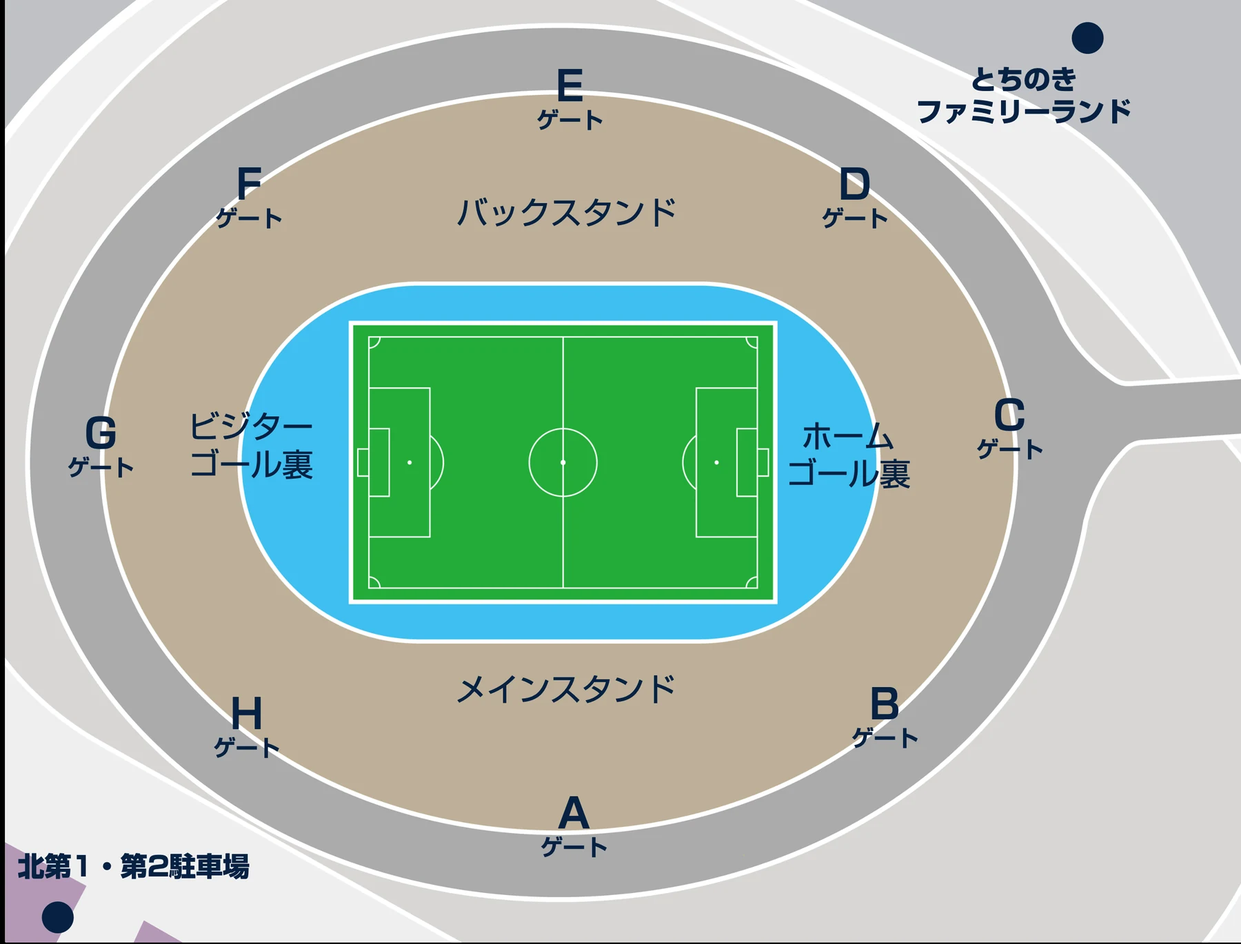
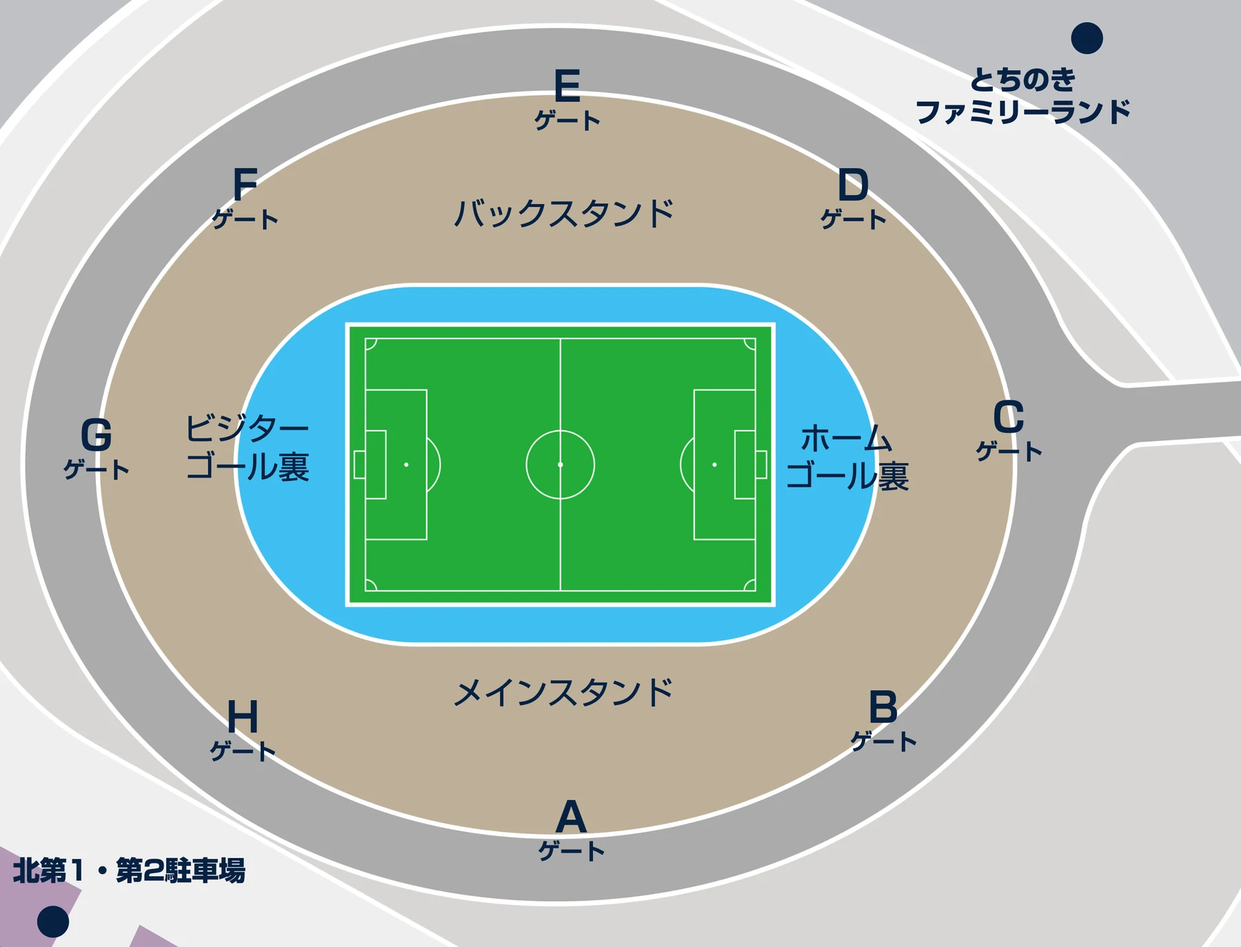
会場図の左辺の罫線を除去・16番をアプローチデッキ上へ
- 罫線は画像に焼き込まれた黒帯（左10px・下3px）だった。CSSではなく
  画像側を切り落として対応。旧画像には帯が無かったため、切り落とすと
  元と同じ枠取りに戻る。ゲートA〜H8か所で照合し、座標変換は不要と確認
- ⑯会茶：デッキの下の帯に置かれていたので、デッキの帯
  （y 0.407〜0.464）の中心 0.4351 へ移動

diff --git a/gourmet-goods-26-27/gourmet.html b/gourmet-goods-26-27/gourmet.html
@@ -417,7 +417,7 @@ a{color:inherit; text-decoration:none;}
 <div id="lb"><span class="x">×</span><div class="box"><div class="big"><div class="demoji"><span>🍧</span></div></div><div class="lbcap" id="lbnm"></div></div></div>
 
 <script>
-const DATA = {"match":{"date":"2026-08-09","kickoff":"19:00","opponent":"ツエーゲン金沢","venue":"カンセキスタジアムとちぎ"},"hours":{"outside":"15:30〜試合終了","inside":"16:30〜試合終了","cashless":true},"note":"販売エリアは完全キャッシュレス（現金不可）。画像・説明文の出典＝栃木SC公式（8/9金沢戦グルメ告知）。","items":[{"id":"i1","name":"栃木SCカラー ビッグかき氷","price":"¥500","desc":"ふわふわ氷にたっぷりシロップをかけた、ボリューム満点のBigサイズ","shop":"O.N.Y","zone":"場外","area":"⑬","e":"🍧","img":"https://www.tochigisc.jp/upload/NewsDetail/images/pc_img_19540_6a69c362-64fc-49dd-84b5-4bd6857d3f39.jpg","hero":true},{"id":"i2","name":"台湾からあげ ダージーパイ","price":"¥800〜","desc":"顔より大きい⁉ ダージーパイはビールとの相性も最高","shop":"O.N.Y","zone":"場外","area":"⑬","e":"🍗","img":"https://www.tochigisc.jp/upload/NewsDetail/images/pc_img_19542_6a684be5-1d68-430e-8cdb-4316857d3f39.jpg","hero":true},{"id":"i3","name":"ダブルチーズバーガー","price":"¥2,400","desc":"BEEF100%パティが2枚、チェダーチーズは4枚","shop":"Chronic Burger","zone":"場外","area":"⑦","e":"🍔","img":"https://www.tochigisc.jp/upload/NewsDetail/images/pc_img_19563_6a69c4df-2d84-4f10-9e3c-4d3b857d3f39.jpg","hero":true},{"id":"i4","name":"超ド級！ソーセージドッグ","price":"¥1,100","desc":"150gもあるソーセージ","shop":"JOURNEY","zone":"場内","area":"㉓","e":"🌭","img":"https://www.tochigisc.jp/upload/NewsDetail/images/pc_img_19589_6a69ba41-e7bc-4f24-a99a-2005857d3f39.jpg","hero":true},{"id":"i5","name":"国産鶏のからあげ","price":"¥648","desc":"国産鶏と秘伝のタレで仕込んだ絶品から揚げ","shop":"からあげかずちゃんち","zone":"場外","area":"⑭","e":"🍗","img":"https://www.tochigisc.jp/upload/NewsDetail/images/pc_img_19544_6a684be7-76d8-43ba-b3cb-4316857d3f39.jpg","hero":false},{"id":"i6","name":"炭火焼 ビック牛串","price":"¥900","desc":"炭火でじっくり焼き上げたビックサイズの牛串","shop":"フードトラック 天","zone":"場外","area":"⑮","e":"🍢","img":"https://www.tochigisc.jp/upload/NewsDetail/images/pc_img_19546_6a69c4de-29b0-4659-8dcf-4d3b857d3f39.jpg","hero":false},{"id":"i7","name":"炙り黒糖ミルクティー","price":"¥800","desc":"本場・台湾仕込みのレシピで作る、こだわりのタピオカドリンク","shop":"会茶","zone":"場外","area":"⑯","e":"🧋","img":"https://www.tochigisc.jp/upload/NewsDetail/images/pc_img_19548_6a684be8-a730-4eab-9e78-4316857d3f39.jpg","hero":false},{"id":"i8","name":"焼きとうもろこし玉子串","price":"¥650","desc":"ダシ醤油玉子焼きにコーンをのせ炙りました","shop":"玉子屋てっちゃん","zone":"場外","area":"⑥","e":"🌽","img":"https://www.tochigisc.jp/upload/NewsDetail/images/pc_img_19553_6a69b9f1-e3cc-41d3-915d-25e4857d3f39.jpg","hero":false},{"id":"i9","name":"大玉揚げたこ焼き","price":"¥700","desc":"揚げたこ焼きアツアツパワーで勝利を後押し","shop":"MoguRico","zone":"場内","area":"㉑","e":"🐙","img":"https://www.tochigisc.jp/upload/NewsDetail/images/pc_img_19561_6a69b9f2-a110-470b-8a7a-25e4857d3f39.jpg","hero":false},{"id":"i10","name":"カツシウマイ串","price":"¥500","desc":"鹿沼シウマイにころもをつけてカリッと揚げました","shop":"SMILE KITCHEN","zone":"場外","area":"①","e":"🍢","img":"https://www.tochigisc.jp/upload/NewsDetail/images/pc_img_19551_6a69b9f2-b3c4-4f4f-ad02-25e4857d3f39.jpg","hero":false},{"id":"i11","name":"ポークカルニータス","price":"¥900","desc":"ホロホロになるまでじっくり煮込んだ豚肩ロース肉に自家製サルサ","shop":"Feel Good Tacos","zone":"場外","area":"②","e":"🌮","img":"https://www.tochigisc.jp/upload/NewsDetail/images/pc_img_19555_6a69b9f3-5114-4f85-9c58-25e4857d3f39.jpg","hero":false},{"id":"i12","name":"味噌豚丼（バラ/カルビ/あいもり）","price":"¥1,000〜1,500","desc":"特製味噌たれで香ばしく焼き上げた","shop":"pighip","zone":"場外","area":"③","e":"🍚","img":"https://www.tochigisc.jp/upload/NewsDetail/images/pc_img_19637_6a69c841-bf94-4713-bcaf-418a857d3f39.jpg","hero":false},{"id":"i13","name":"味噌豚カルビ串","price":"¥700","desc":"特製味噌たれで香ばしく焼き上げた","shop":"pighip","zone":"場外","area":"③","e":"🍢","img":"https://www.tochigisc.jp/upload/NewsDetail/images/pc_img_19637_6a69c841-bf94-4713-bcaf-418a857d3f39.jpg","hero":false},{"id":"i14","name":"牛肉のトマト煮","price":"¥800","desc":"牛肉を飴色に炒めた玉ねぎ、自家製トマトソースで煮込んで","shop":"Sports Café 92","zone":"場外","area":"④","e":"🍲","img":"https://www.tochigisc.jp/upload/NewsDetail/images/pc_img_19557_6a69b9f3-f81c-40cd-831f-25e4857d3f39.jpg","hero":false},{"id":"i15","name":"マーラータンフライドチキン","price":"¥450","desc":"ちょっぴり辛くてサクサクジューシーのマーラータン味","shop":"大谷石窯ピッツァ","zone":"場外","area":"⑤","e":"🍗","img":"https://www.tochigisc.jp/upload/NewsDetail/images/pc_img_19559_6a69b9f4-58c8-4f0c-9331-25e4857d3f39.jpg","hero":false},{"id":"i16","name":"スパイシーチキン","price":"¥800","desc":"トマトベースの甘辛スパイスソースを絡めた","shop":"月とスパイス","zone":"場外","area":"⑨","e":"🍗","img":"https://www.tochigisc.jp/upload/NewsDetail/images/pc_img_19565_6a69c4df-65ec-4753-a914-4d3b857d3f39.jpg","hero":false},{"id":"i17","name":"ケバブサンド","price":"¥600","desc":"回転焼肉を挟んだもも肉100%のジューシーなチキンケバブサンド","shop":"ケバブキッチン","zone":"場外","area":"⑩","e":"🥙","img":"https://www.tochigisc.jp/upload/NewsDetail/images/pc_img_19567_6a684fe8-3200-4d74-a886-5868857d3f39.jpg","hero":false},{"id":"i18","name":"ブラジル丼","price":"¥1,000","desc":"チキンカツ、牛ステーキ、ブラジリアンソーセージ","shop":"ダ・ネイデ","zone":"場外","area":"⑪","e":"🍚","img":"https://www.tochigisc.jp/upload/NewsDetail/images/pc_img_19569_6a684fea-7dec-42c9-90d9-5868857d3f39.jpg","hero":false},{"id":"i19","name":"リングイッサ","price":"¥800","desc":"ブラジリアンソーセージ！おつまみにどうぞ","shop":"ダ・ネイデ","zone":"場外","area":"⑪","e":"🌭","img":"https://www.tochigisc.jp/upload/NewsDetail/images/pc_img_19571_6a69ba3e-63ac-49dd-ba0f-2005857d3f39.jpg","hero":false},{"id":"i20","name":"炭火焼もも串","price":"¥380","desc":"もも2本セット、秘伝のタレでご賞味","shop":"フードトラック 天","zone":"場外","area":"⑮","e":"🍢","img":"https://www.tochigisc.jp/upload/NewsDetail/images/pc_img_19573_6a69ce07-11c8-4d52-be9d-6a1d857d3f39.jpg","hero":false},{"id":"i21","name":"台湾ポップコーンチキン","price":"¥650","desc":"外はサクサク、中はジューシー！台湾スパイスの香り","shop":"会茶","zone":"場外","area":"⑯","e":"🍗","img":"https://www.tochigisc.jp/upload/NewsDetail/images/pc_img_19575_6a69ce08-5878-469f-b5a5-6a1d857d3f39.jpg","hero":false},{"id":"i22","name":"スモーキーダックレッグ","price":"¥800","desc":"スモーキーな香りと濃厚な鴨の旨み","shop":"DordCoffee","zone":"場内","area":"⑱","e":"🍖","img":"https://www.tochigisc.jp/upload/NewsDetail/images/pc_img_19577_6a69ba3f-c0a8-4f14-a7b0-2005857d3f39.jpg","hero":false},{"id":"i23","name":"肉巻き串団子","price":"¥400","desc":"もっちり串団子に豚バラ肉を巻き付けて焼いた","shop":"とちぎのぼんた","zone":"場内","area":"⑲","e":"🍡","img":"https://www.tochigisc.jp/upload/NewsDetail/images/pc_img_19579_6a69ba3f-3e8c-44a2-9c97-2005857d3f39.jpg","hero":false},{"id":"i24","name":"角煮パオ","price":"¥500","desc":"柔らかくトロトロに煮込んだ豚バラ肉の角煮","shop":"Season1","zone":"場内","area":"⑳","e":"🥟","img":"https://www.tochigisc.jp/upload/NewsDetail/images/pc_img_19581_6a69ba40-78d0-4645-afff-2005857d3f39.jpg","hero":false},{"id":"i25","name":"ターキーレッグ","price":"¥850","desc":"りんごチップでじっくり燻製！香ばしさとジューシーさ","shop":"MoguRico","zone":"場内","area":"㉑","e":"🍖","img":"https://www.tochigisc.jp/upload/NewsDetail/images/pc_img_19583_6a69ba40-5dac-4955-a3e4-2005857d3f39.jpg","hero":false},{"id":"i26","name":"から揚げ","price":"¥650","desc":"外はカリッと中はジューシーなから揚げ","shop":"M's kitchen NEWS","zone":"場内","area":"㉒","e":"🍗","img":"https://www.tochigisc.jp/upload/NewsDetail/images/pc_img_19585_6a69ba41-2b0c-4aef-9baa-2005857d3f39.jpg","hero":false},{"id":"i27","name":"パストラミポークコッペ","price":"¥702","desc":"お店でも人気のパストラミポーク","shop":"JOURNEY","zone":"場内","area":"㉓","e":"🥖","img":"https://www.tochigisc.jp/upload/NewsDetail/images/pc_img_19587_6a684ff2-04a0-45b5-98b9-5868857d3f39.jpg","hero":false},{"id":"i28","name":"パストラミポークコッペ 倍盛り","price":"¥972","desc":"お肉倍盛りの60gが入った贅沢盛り","shop":"JOURNEY","zone":"場内","area":"㉓","e":"🥖","img":"https://www.tochigisc.jp/upload/NewsDetail/images/pc_img_19587_6a684ff2-04a0-45b5-98b9-5868857d3f39.jpg","hero":false},{"id":"i29","name":"辛味チキン","price":"¥600","desc":"ピリッと辛いチキン、ビールと一緒に","shop":"ドリームソウル","zone":"場内","area":"㉔","e":"🍗","img":"https://www.tochigisc.jp/upload/NewsDetail/images/pc_img_19591_6a69ba42-da98-465c-ab34-2005857d3f39.jpg","hero":false},{"id":"i30","name":"汁なし担々麵","price":"¥1,000","desc":"濃厚ゴマダレの汁なし担々麵","shop":"SMILE KITCHEN","zone":"場外","area":"①","e":"🍜","img":"https://www.tochigisc.jp/upload/NewsDetail/images/pc_img_19640_6a69ce08-77b4-4eb0-98ba-6a1d857d3f39.jpg","hero":false},{"id":"i31","name":"チキンオーバーライス","price":"¥1,000","desc":"ホットソースとホワイトソースが作り出すスパイシー","shop":"Feel Good Tacos","zone":"場外","area":"②","e":"🍚","img":"https://www.tochigisc.jp/upload/NewsDetail/images/pc_img_19642_6a69c843-6f4c-44a2-9e53-418a857d3f39.jpg","hero":false},{"id":"i32","name":"味噌豚カルビ丼","price":"¥1,500","desc":"栃木県野木町産コシヒカリと千葉県佐倉市の老舗味噌蔵","shop":"pighip","zone":"場外","area":"③","e":"🍚","img":"https://www.tochigisc.jp/upload/NewsDetail/images/pc_img_19644_6a69c845-d6dc-4d57-983b-418a857d3f39.jpg","hero":false},{"id":"i33","name":"フレッシュトマトとツナのパスタ","price":"¥750","desc":"旬のトマト、ツナでさっぱりと！","shop":"Sports Café 92","zone":"場外","area":"④","e":"🍝","img":"https://www.tochigisc.jp/upload/NewsDetail/images/pc_img_19646_6a69c846-bd6c-4843-94c1-418a857d3f39.jpg","hero":false},{"id":"i34","name":"マルゲリータ","price":"¥1,300","desc":"大谷石窯で焼き上げる本格石窯ピザ","shop":"大谷石窯ピッツァ","zone":"場外","area":"⑤","e":"🍕","img":"https://www.tochigisc.jp/upload/NewsDetail/images/pc_img_19648_6a69c847-2b88-45ed-a191-418a857d3f39.jpg","hero":false},{"id":"i35","name":"玉子焼き","price":"¥700","desc":"玉子屋創業70年、昔ながらの美味しい玉子焼き","shop":"玉子屋てっちゃん","zone":"場外","area":"⑥","e":"🍳","img":"https://www.tochigisc.jp/upload/NewsDetail/images/pc_img_19650_6a69cc01-6d1c-4025-bacc-6353857d3f39.jpg","hero":false},{"id":"i36","name":"ジェラート","price":"¥500","desc":"日光乙女チーズのジェラート","shop":"日光乙女チーズ","zone":"場外","area":"⑧","e":"🍨","img":"https://www.tochigisc.jp/upload/NewsDetail/images/pc_img_19652_6a69ce0a-c604-40c8-bf24-6a1d857d3f39.jpg","hero":false},{"id":"i37","name":"チキンカレー","price":"¥1,100","desc":"本格的南インドカレーの人気店、月とスパイスのこだわり","shop":"月とスパイス","zone":"場外","area":"⑨","e":"🍛","img":"https://www.tochigisc.jp/upload/NewsDetail/images/pc_img_19654_6a69cc03-5d10-45e9-b780-6353857d3f39.jpg","hero":false},{"id":"i38","name":"レモネード","price":"¥660〜","desc":"豊富な種類のレモネード、アルコール入りもあります","shop":"ねこにレモン","zone":"場外","area":"⑫","e":"🍋","img":"https://www.tochigisc.jp/upload/NewsDetail/images/pc_img_19656_6a69cc04-112c-411b-a506-6353857d3f39.jpg","hero":false},{"id":"i39","name":"カットりんご飴","price":"¥918","desc":"市場で仕入れる新鮮りんご","shop":"LUANA","zone":"場内","area":"⑰","e":"🍎","img":"https://www.tochigisc.jp/upload/NewsDetail/images/pc_img_19658_6a69cc05-617c-4033-9dc5-6353857d3f39.jpg","hero":false},{"id":"i40","name":"カフェモカ","price":"¥702","desc":"香り高いカフェモカ","shop":"DordCoffee","zone":"場内","area":"⑱","e":"☕","img":"https://www.tochigisc.jp/upload/NewsDetail/images/pc_img_19660_6a69cc07-4bf8-4c4c-81ad-6353857d3f39.jpg","hero":false},{"id":"i41","name":"カツカレーライス","price":"¥1,200","desc":"勝つ（カツ）カレーで勝利を呼び込め","shop":"MoguRico","zone":"場内","area":"㉑","e":"🍛","img":"https://www.tochigisc.jp/upload/NewsDetail/images/pc_img_19662_6a69cc08-87bc-4c98-ad8e-6353857d3f39.jpg","hero":false},{"id":"i42","name":"必勝！！鯖サンド！！","price":"¥1,000","desc":"ボリューム満点鯖サンド！具材たっぷり特製タルタルソース","shop":"M's kitchen NEWS","zone":"場内","area":"㉒","e":"🥪","img":"https://www.tochigisc.jp/upload/NewsDetail/images/pc_img_19664_6a69cc09-8614-4d11-b9e8-6353857d3f39.jpg","hero":false},{"id":"i43","name":"栃木県産ヤシオポーク丼","price":"¥1,000","desc":"栃木県産ヤシオポークを使い、栃木県民の食べなれた味","shop":"ドリームソウル","zone":"場内","area":"㉔","e":"🍚","img":"https://www.tochigisc.jp/upload/NewsDetail/images/pc_img_19666_6a69cc0a-5e6c-4a19-8c41-6353857d3f39.jpg","hero":false}],"areas":[{"no":"①","zone":"場外","shop":"SMILE KITCHEN","x":0.2119,"y":0.8585},{"no":"②","zone":"場外","shop":"Feel Good Tacos","x":0.2689,"y":0.8939},{"no":"③","zone":"場外","shop":"pighip","x":0.3303,"y":0.9193},{"no":"④","zone":"場外","shop":"Sports Café 92","x":0.3946,"y":0.9342},{"no":"⑤","zone":"場外","shop":"大谷石窯ピッツァ","x":0.4603,"y":0.9382},{"no":"⑥","zone":"場外","shop":"玉子屋てっちゃん","x":0.5258,"y":0.9312},{"no":"⑦","zone":"場外","shop":"Chronic Burger","x":0.5895,"y":0.9133},{"no":"⑧","zone":"場外","shop":"日光乙女チーズ","x":0.6498,"y":0.8851},{"no":"⑨","zone":"場外","shop":"月とスパイス","x":0.7053,"y":0.8471},{"no":"⑩","zone":"場外","shop":"ケバブキッチン","x":0.7547,"y":0.8003},{"no":"⑪","zone":"場外","shop":"ダ・ネイデ","x":0.7967,"y":0.7458},{"no":"⑫","zone":"場外","shop":"ねこにレモン","x":0.8303,"y":0.685},{"no":"⑬","zone":"場外","shop":"O.N.Y","x":0.8547,"y":0.6193},{"no":"⑭","zone":"場外","shop":"からあげかずちゃんち","x":0.8693,"y":0.5503},{"no":"⑮","zone":"場外","shop":"フードトラック 天","x":0.8738,"y":0.4798},{"no":"⑯","zone":"場外","shop":"会茶","x":0.9488,"y":0.4898},{"no":"⑰","zone":"場内","shop":"LUANA","x":0.6318,"y":0.7497},{"no":"⑱","zone":"場内","shop":"DordCoffee","x":0.6862,"y":0.6949},{"no":"⑲","zone":"場内","shop":"とちぎのぼんた","x":0.756,"y":0.5138},{"no":"⑳","zone":"場内","shop":"Season1","x":0.6925,"y":0.2819},{"no":"㉑","zone":"場内","shop":"MoguRico","x":0.5009,"y":0.1598},{"no":"㉒","zone":"場内","shop":"M's kitchen NEWS","x":0.4264,"y":0.1565},{"no":"㉓","zone":"場内","shop":"JOURNEY","x":0.2069,"y":0.2864},{"no":"㉔","zone":"場内","shop":"ドリームソウル","x":0.205,"y":0.6795}],"maps":[{"img":"assets/img/g_map_gates_01.webp","caption":"会場図（番号は販売エリア）","fit":"whole","role":"primary","onimage":"ホームゲームの開放ゲートは A・C・G"}],"gates":[{"name":"A","x":0.4658,"y":0.8757},{"name":"B","x":0.7,"y":0.7693},{"name":"C","x":0.8155,"y":0.4648},{"name":"D","x":0.7002,"y":0.2075},{"name":"E","x":0.4661,"y":0.0928},{"name":"F","x":0.1928,"y":0.2066},{"name":"G","x":0.087,"y":0.4639},{"name":"H","x":0.1824,"y":0.7674}],"brand":{"name":"BISTRO TOCKEY","sub":"栃木SC フードエリア","logo":"assets/img/bistro_tockey.svg","bg":"#F4D14D","logoW":"124px","logoMax":"38%"},"payment":{"lead":"キャッシュレスでお会計もスムーズ","short":"スタジアム内のお支払いはキャッシュレスのみです。","body":"クレジットカード・スマホ決済・電子マネーがそのまま使えます。現金はご利用いただけません。","note":"現金をお持ちの方は、当日場内の専用ブースでプリペイドカードをご用意しています。","guideUrl":"#"}};
+const DATA = {"match":{"date":"2026-08-09","kickoff":"19:00","opponent":"ツエーゲン金沢","venue":"カンセキスタジアムとちぎ"},"hours":{"outside":"15:30〜試合終了","inside":"16:30〜試合終了","cashless":true},"note":"販売エリアは完全キャッシュレス（現金不可）。画像・説明文の出典＝栃木SC公式（8/9金沢戦グルメ告知）。","items":[{"id":"i1","name":"栃木SCカラー ビッグかき氷","price":"¥500","desc":"ふわふわ氷にたっぷりシロップをかけた、ボリューム満点のBigサイズ","shop":"O.N.Y","zone":"場外","area":"⑬","e":"🍧","img":"https://www.tochigisc.jp/upload/NewsDetail/images/pc_img_19540_6a69c362-64fc-49dd-84b5-4bd6857d3f39.jpg","hero":true},{"id":"i2","name":"台湾からあげ ダージーパイ","price":"¥800〜","desc":"顔より大きい⁉ ダージーパイはビールとの相性も最高","shop":"O.N.Y","zone":"場外","area":"⑬","e":"🍗","img":"https://www.tochigisc.jp/upload/NewsDetail/images/pc_img_19542_6a684be5-1d68-430e-8cdb-4316857d3f39.jpg","hero":true},{"id":"i3","name":"ダブルチーズバーガー","price":"¥2,400","desc":"BEEF100%パティが2枚、チェダーチーズは4枚","shop":"Chronic Burger","zone":"場外","area":"⑦","e":"🍔","img":"https://www.tochigisc.jp/upload/NewsDetail/images/pc_img_19563_6a69c4df-2d84-4f10-9e3c-4d3b857d3f39.jpg","hero":true},{"id":"i4","name":"超ド級！ソーセージドッグ","price":"¥1,100","desc":"150gもあるソーセージ","shop":"JOURNEY","zone":"場内","area":"㉓","e":"🌭","img":"https://www.tochigisc.jp/upload/NewsDetail/images/pc_img_19589_6a69ba41-e7bc-4f24-a99a-2005857d3f39.jpg","hero":true},{"id":"i5","name":"国産鶏のからあげ","price":"¥648","desc":"国産鶏と秘伝のタレで仕込んだ絶品から揚げ","shop":"からあげかずちゃんち","zone":"場外","area":"⑭","e":"🍗","img":"https://www.tochigisc.jp/upload/NewsDetail/images/pc_img_19544_6a684be7-76d8-43ba-b3cb-4316857d3f39.jpg","hero":false},{"id":"i6","name":"炭火焼 ビック牛串","price":"¥900","desc":"炭火でじっくり焼き上げたビックサイズの牛串","shop":"フードトラック 天","zone":"場外","area":"⑮","e":"🍢","img":"https://www.tochigisc.jp/upload/NewsDetail/images/pc_img_19546_6a69c4de-29b0-4659-8dcf-4d3b857d3f39.jpg","hero":false},{"id":"i7","name":"炙り黒糖ミルクティー","price":"¥800","desc":"本場・台湾仕込みのレシピで作る、こだわりのタピオカドリンク","shop":"会茶","zone":"場外","area":"⑯","e":"🧋","img":"https://www.tochigisc.jp/upload/NewsDetail/images/pc_img_19548_6a684be8-a730-4eab-9e78-4316857d3f39.jpg","hero":false},{"id":"i8","name":"焼きとうもろこし玉子串","price":"¥650","desc":"ダシ醤油玉子焼きにコーンをのせ炙りました","shop":"玉子屋てっちゃん","zone":"場外","area":"⑥","e":"🌽","img":"https://www.tochigisc.jp/upload/NewsDetail/images/pc_img_19553_6a69b9f1-e3cc-41d3-915d-25e4857d3f39.jpg","hero":false},{"id":"i9","name":"大玉揚げたこ焼き","price":"¥700","desc":"揚げたこ焼きアツアツパワーで勝利を後押し","shop":"MoguRico","zone":"場内","area":"㉑","e":"🐙","img":"https://www.tochigisc.jp/upload/NewsDetail/images/pc_img_19561_6a69b9f2-a110-470b-8a7a-25e4857d3f39.jpg","hero":false},{"id":"i10","name":"カツシウマイ串","price":"¥500","desc":"鹿沼シウマイにころもをつけてカリッと揚げました","shop":"SMILE KITCHEN","zone":"場外","area":"①","e":"🍢","img":"https://www.tochigisc.jp/upload/NewsDetail/images/pc_img_19551_6a69b9f2-b3c4-4f4f-ad02-25e4857d3f39.jpg","hero":false},{"id":"i11","name":"ポークカルニータス","price":"¥900","desc":"ホロホロになるまでじっくり煮込んだ豚肩ロース肉に自家製サルサ","shop":"Feel Good Tacos","zone":"場外","area":"②","e":"🌮","img":"https://www.tochigisc.jp/upload/NewsDetail/images/pc_img_19555_6a69b9f3-5114-4f85-9c58-25e4857d3f39.jpg","hero":false},{"id":"i12","name":"味噌豚丼（バラ/カルビ/あいもり）","price":"¥1,000〜1,500","desc":"特製味噌たれで香ばしく焼き上げた","shop":"pighip","zone":"場外","area":"③","e":"🍚","img":"https://www.tochigisc.jp/upload/NewsDetail/images/pc_img_19637_6a69c841-bf94-4713-bcaf-418a857d3f39.jpg","hero":false},{"id":"i13","name":"味噌豚カルビ串","price":"¥700","desc":"特製味噌たれで香ばしく焼き上げた","shop":"pighip","zone":"場外","area":"③","e":"🍢","img":"https://www.tochigisc.jp/upload/NewsDetail/images/pc_img_19637_6a69c841-bf94-4713-bcaf-418a857d3f39.jpg","hero":false},{"id":"i14","name":"牛肉のトマト煮","price":"¥800","desc":"牛肉を飴色に炒めた玉ねぎ、自家製トマトソースで煮込んで","shop":"Sports Café 92","zone":"場外","area":"④","e":"🍲","img":"https://www.tochigisc.jp/upload/NewsDetail/images/pc_img_19557_6a69b9f3-f81c-40cd-831f-25e4857d3f39.jpg","hero":false},{"id":"i15","name":"マーラータンフライドチキン","price":"¥450","desc":"ちょっぴり辛くてサクサクジューシーのマーラータン味","shop":"大谷石窯ピッツァ","zone":"場外","area":"⑤","e":"🍗","img":"https://www.tochigisc.jp/upload/NewsDetail/images/pc_img_19559_6a69b9f4-58c8-4f0c-9331-25e4857d3f39.jpg","hero":false},{"id":"i16","name":"スパイシーチキン","price":"¥800","desc":"トマトベースの甘辛スパイスソースを絡めた","shop":"月とスパイス","zone":"場外","area":"⑨","e":"🍗","img":"https://www.tochigisc.jp/upload/NewsDetail/images/pc_img_19565_6a69c4df-65ec-4753-a914-4d3b857d3f39.jpg","hero":false},{"id":"i17","name":"ケバブサンド","price":"¥600","desc":"回転焼肉を挟んだもも肉100%のジューシーなチキンケバブサンド","shop":"ケバブキッチン","zone":"場外","area":"⑩","e":"🥙","img":"https://www.tochigisc.jp/upload/NewsDetail/images/pc_img_19567_6a684fe8-3200-4d74-a886-5868857d3f39.jpg","hero":false},{"id":"i18","name":"ブラジル丼","price":"¥1,000","desc":"チキンカツ、牛ステーキ、ブラジリアンソーセージ","shop":"ダ・ネイデ","zone":"場外","area":"⑪","e":"🍚","img":"https://www.tochigisc.jp/upload/NewsDetail/images/pc_img_19569_6a684fea-7dec-42c9-90d9-5868857d3f39.jpg","hero":false},{"id":"i19","name":"リングイッサ","price":"¥800","desc":"ブラジリアンソーセージ！おつまみにどうぞ","shop":"ダ・ネイデ","zone":"場外","area":"⑪","e":"🌭","img":"https://www.tochigisc.jp/upload/NewsDetail/images/pc_img_19571_6a69ba3e-63ac-49dd-ba0f-2005857d3f39.jpg","hero":false},{"id":"i20","name":"炭火焼もも串","price":"¥380","desc":"もも2本セット、秘伝のタレでご賞味","shop":"フードトラック 天","zone":"場外","area":"⑮","e":"🍢","img":"https://www.tochigisc.jp/upload/NewsDetail/images/pc_img_19573_6a69ce07-11c8-4d52-be9d-6a1d857d3f39.jpg","hero":false},{"id":"i21","name":"台湾ポップコーンチキン","price":"¥650","desc":"外はサクサク、中はジューシー！台湾スパイスの香り","shop":"会茶","zone":"場外","area":"⑯","e":"🍗","img":"https://www.tochigisc.jp/upload/NewsDetail/images/pc_img_19575_6a69ce08-5878-469f-b5a5-6a1d857d3f39.jpg","hero":false},{"id":"i22","name":"スモーキーダックレッグ","price":"¥800","desc":"スモーキーな香りと濃厚な鴨の旨み","shop":"DordCoffee","zone":"場内","area":"⑱","e":"🍖","img":"https://www.tochigisc.jp/upload/NewsDetail/images/pc_img_19577_6a69ba3f-c0a8-4f14-a7b0-2005857d3f39.jpg","hero":false},{"id":"i23","name":"肉巻き串団子","price":"¥400","desc":"もっちり串団子に豚バラ肉を巻き付けて焼いた","shop":"とちぎのぼんた","zone":"場内","area":"⑲","e":"🍡","img":"https://www.tochigisc.jp/upload/NewsDetail/images/pc_img_19579_6a69ba3f-3e8c-44a2-9c97-2005857d3f39.jpg","hero":false},{"id":"i24","name":"角煮パオ","price":"¥500","desc":"柔らかくトロトロに煮込んだ豚バラ肉の角煮","shop":"Season1","zone":"場内","area":"⑳","e":"🥟","img":"https://www.tochigisc.jp/upload/NewsDetail/images/pc_img_19581_6a69ba40-78d0-4645-afff-2005857d3f39.jpg","hero":false},{"id":"i25","name":"ターキーレッグ","price":"¥850","desc":"りんごチップでじっくり燻製！香ばしさとジューシーさ","shop":"MoguRico","zone":"場内","area":"㉑","e":"🍖","img":"https://www.tochigisc.jp/upload/NewsDetail/images/pc_img_19583_6a69ba40-5dac-4955-a3e4-2005857d3f39.jpg","hero":false},{"id":"i26","name":"から揚げ","price":"¥650","desc":"外はカリッと中はジューシーなから揚げ","shop":"M's kitchen NEWS","zone":"場内","area":"㉒","e":"🍗","img":"https://www.tochigisc.jp/upload/NewsDetail/images/pc_img_19585_6a69ba41-2b0c-4aef-9baa-2005857d3f39.jpg","hero":false},{"id":"i27","name":"パストラミポークコッペ","price":"¥702","desc":"お店でも人気のパストラミポーク","shop":"JOURNEY","zone":"場内","area":"㉓","e":"🥖","img":"https://www.tochigisc.jp/upload/NewsDetail/images/pc_img_19587_6a684ff2-04a0-45b5-98b9-5868857d3f39.jpg","hero":false},{"id":"i28","name":"パストラミポークコッペ 倍盛り","price":"¥972","desc":"お肉倍盛りの60gが入った贅沢盛り","shop":"JOURNEY","zone":"場内","area":"㉓","e":"🥖","img":"https://www.tochigisc.jp/upload/NewsDetail/images/pc_img_19587_6a684ff2-04a0-45b5-98b9-5868857d3f39.jpg","hero":false},{"id":"i29","name":"辛味チキン","price":"¥600","desc":"ピリッと辛いチキン、ビールと一緒に","shop":"ドリームソウル","zone":"場内","area":"㉔","e":"🍗","img":"https://www.tochigisc.jp/upload/NewsDetail/images/pc_img_19591_6a69ba42-da98-465c-ab34-2005857d3f39.jpg","hero":false},{"id":"i30","name":"汁なし担々麵","price":"¥1,000","desc":"濃厚ゴマダレの汁なし担々麵","shop":"SMILE KITCHEN","zone":"場外","area":"①","e":"🍜","img":"https://www.tochigisc.jp/upload/NewsDetail/images/pc_img_19640_6a69ce08-77b4-4eb0-98ba-6a1d857d3f39.jpg","hero":false},{"id":"i31","name":"チキンオーバーライス","price":"¥1,000","desc":"ホットソースとホワイトソースが作り出すスパイシー","shop":"Feel Good Tacos","zone":"場外","area":"②","e":"🍚","img":"https://www.tochigisc.jp/upload/NewsDetail/images/pc_img_19642_6a69c843-6f4c-44a2-9e53-418a857d3f39.jpg","hero":false},{"id":"i32","name":"味噌豚カルビ丼","price":"¥1,500","desc":"栃木県野木町産コシヒカリと千葉県佐倉市の老舗味噌蔵","shop":"pighip","zone":"場外","area":"③","e":"🍚","img":"https://www.tochigisc.jp/upload/NewsDetail/images/pc_img_19644_6a69c845-d6dc-4d57-983b-418a857d3f39.jpg","hero":false},{"id":"i33","name":"フレッシュトマトとツナのパスタ","price":"¥750","desc":"旬のトマト、ツナでさっぱりと！","shop":"Sports Café 92","zone":"場外","area":"④","e":"🍝","img":"https://www.tochigisc.jp/upload/NewsDetail/images/pc_img_19646_6a69c846-bd6c-4843-94c1-418a857d3f39.jpg","hero":false},{"id":"i34","name":"マルゲリータ","price":"¥1,300","desc":"大谷石窯で焼き上げる本格石窯ピザ","shop":"大谷石窯ピッツァ","zone":"場外","area":"⑤","e":"🍕","img":"https://www.tochigisc.jp/upload/NewsDetail/images/pc_img_19648_6a69c847-2b88-45ed-a191-418a857d3f39.jpg","hero":false},{"id":"i35","name":"玉子焼き","price":"¥700","desc":"玉子屋創業70年、昔ながらの美味しい玉子焼き","shop":"玉子屋てっちゃん","zone":"場外","area":"⑥","e":"🍳","img":"https://www.tochigisc.jp/upload/NewsDetail/images/pc_img_19650_6a69cc01-6d1c-4025-bacc-6353857d3f39.jpg","hero":false},{"id":"i36","name":"ジェラート","price":"¥500","desc":"日光乙女チーズのジェラート","shop":"日光乙女チーズ","zone":"場外","area":"⑧","e":"🍨","img":"https://www.tochigisc.jp/upload/NewsDetail/images/pc_img_19652_6a69ce0a-c604-40c8-bf24-6a1d857d3f39.jpg","hero":false},{"id":"i37","name":"チキンカレー","price":"¥1,100","desc":"本格的南インドカレーの人気店、月とスパイスのこだわり","shop":"月とスパイス","zone":"場外","area":"⑨","e":"🍛","img":"https://www.tochigisc.jp/upload/NewsDetail/images/pc_img_19654_6a69cc03-5d10-45e9-b780-6353857d3f39.jpg","hero":false},{"id":"i38","name":"レモネード","price":"¥660〜","desc":"豊富な種類のレモネード、アルコール入りもあります","shop":"ねこにレモン","zone":"場外","area":"⑫","e":"🍋","img":"https://www.tochigisc.jp/upload/NewsDetail/images/pc_img_19656_6a69cc04-112c-411b-a506-6353857d3f39.jpg","hero":false},{"id":"i39","name":"カットりんご飴","price":"¥918","desc":"市場で仕入れる新鮮りんご","shop":"LUANA","zone":"場内","area":"⑰","e":"🍎","img":"https://www.tochigisc.jp/upload/NewsDetail/images/pc_img_19658_6a69cc05-617c-4033-9dc5-6353857d3f39.jpg","hero":false},{"id":"i40","name":"カフェモカ","price":"¥702","desc":"香り高いカフェモカ","shop":"DordCoffee","zone":"場内","area":"⑱","e":"☕","img":"https://www.tochigisc.jp/upload/NewsDetail/images/pc_img_19660_6a69cc07-4bf8-4c4c-81ad-6353857d3f39.jpg","hero":false},{"id":"i41","name":"カツカレーライス","price":"¥1,200","desc":"勝つ（カツ）カレーで勝利を呼び込め","shop":"MoguRico","zone":"場内","area":"㉑","e":"🍛","img":"https://www.tochigisc.jp/upload/NewsDetail/images/pc_img_19662_6a69cc08-87bc-4c98-ad8e-6353857d3f39.jpg","hero":false},{"id":"i42","name":"必勝！！鯖サンド！！","price":"¥1,000","desc":"ボリューム満点鯖サンド！具材たっぷり特製タルタルソース","shop":"M's kitchen NEWS","zone":"場内","area":"㉒","e":"🥪","img":"https://www.tochigisc.jp/upload/NewsDetail/images/pc_img_19664_6a69cc09-8614-4d11-b9e8-6353857d3f39.jpg","hero":false},{"id":"i43","name":"栃木県産ヤシオポーク丼","price":"¥1,000","desc":"栃木県産ヤシオポークを使い、栃木県民の食べなれた味","shop":"ドリームソウル","zone":"場内","area":"㉔","e":"🍚","img":"https://www.tochigisc.jp/upload/NewsDetail/images/pc_img_19666_6a69cc0a-5e6c-4a19-8c41-6353857d3f39.jpg","hero":false}],"areas":[{"no":"①","zone":"場外","shop":"SMILE KITCHEN","x":0.2119,"y":0.8585},{"no":"②","zone":"場外","shop":"Feel Good Tacos","x":0.2689,"y":0.8939},{"no":"③","zone":"場外","shop":"pighip","x":0.3303,"y":0.9193},{"no":"④","zone":"場外","shop":"Sports Café 92","x":0.3946,"y":0.9342},{"no":"⑤","zone":"場外","shop":"大谷石窯ピッツァ","x":0.4603,"y":0.9382},{"no":"⑥","zone":"場外","shop":"玉子屋てっちゃん","x":0.5258,"y":0.9312},{"no":"⑦","zone":"場外","shop":"Chronic Burger","x":0.5895,"y":0.9133},{"no":"⑧","zone":"場外","shop":"日光乙女チーズ","x":0.6498,"y":0.8851},{"no":"⑨","zone":"場外","shop":"月とスパイス","x":0.7053,"y":0.8471},{"no":"⑩","zone":"場外","shop":"ケバブキッチン","x":0.7547,"y":0.8003},{"no":"⑪","zone":"場外","shop":"ダ・ネイデ","x":0.7967,"y":0.7458},{"no":"⑫","zone":"場外","shop":"ねこにレモン","x":0.8303,"y":0.685},{"no":"⑬","zone":"場外","shop":"O.N.Y","x":0.8547,"y":0.6193},{"no":"⑭","zone":"場外","shop":"からあげかずちゃんち","x":0.8693,"y":0.5503},{"no":"⑮","zone":"場外","shop":"フードトラック 天","x":0.8738,"y":0.4798},{"no":"⑯","zone":"場外","shop":"会茶","x":0.9488,"y":0.4351},{"no":"⑰","zone":"場内","shop":"LUANA","x":0.6318,"y":0.7497},{"no":"⑱","zone":"場内","shop":"DordCoffee","x":0.6862,"y":0.6949},{"no":"⑲","zone":"場内","shop":"とちぎのぼんた","x":0.756,"y":0.5138},{"no":"⑳","zone":"場内","shop":"Season1","x":0.6925,"y":0.2819},{"no":"㉑","zone":"場内","shop":"MoguRico","x":0.5009,"y":0.1598},{"no":"㉒","zone":"場内","shop":"M's kitchen NEWS","x":0.4264,"y":0.1565},{"no":"㉓","zone":"場内","shop":"JOURNEY","x":0.2069,"y":0.2864},{"no":"㉔","zone":"場内","shop":"ドリームソウル","x":0.205,"y":0.6795}],"maps":[{"img":"assets/img/g_map_gates_01.webp","caption":"会場図（番号は販売エリア）","fit":"whole","role":"primary","onimage":"ホームゲームの開放ゲートは A・C・G"}],"gates":[{"name":"A","x":0.4658,"y":0.8757},{"name":"B","x":0.7,"y":0.7693},{"name":"C","x":0.8155,"y":0.4648},{"name":"D","x":0.7002,"y":0.2075},{"name":"E","x":0.4661,"y":0.0928},{"name":"F","x":0.1928,"y":0.2066},{"name":"G","x":0.087,"y":0.4639},{"name":"H","x":0.1824,"y":0.7674}],"brand":{"name":"BISTRO TOCKEY","sub":"栃木SC フードエリア","logo":"assets/img/bistro_tockey.svg","bg":"#F4D14D","logoW":"124px","logoMax":"38%"},"payment":{"lead":"キャッシュレスでお会計もスムーズ","short":"スタジアム内のお支払いはキャッシュレスのみです。","body":"クレジットカード・スマホ決済・電子マネーがそのまま使えます。現金はご利用いただけません。","note":"現金をお持ちの方は、当日場内の専用ブースでプリペイドカードをご用意しています。","guideUrl":"#"}};
 
   function esc(s){return (s||'').replace(/&/g,'&amp;').replace(/</g,'&lt;').replace(/>/g,'&gt;').replace(/"/g,'&quot;');}
   function phInner(it){
